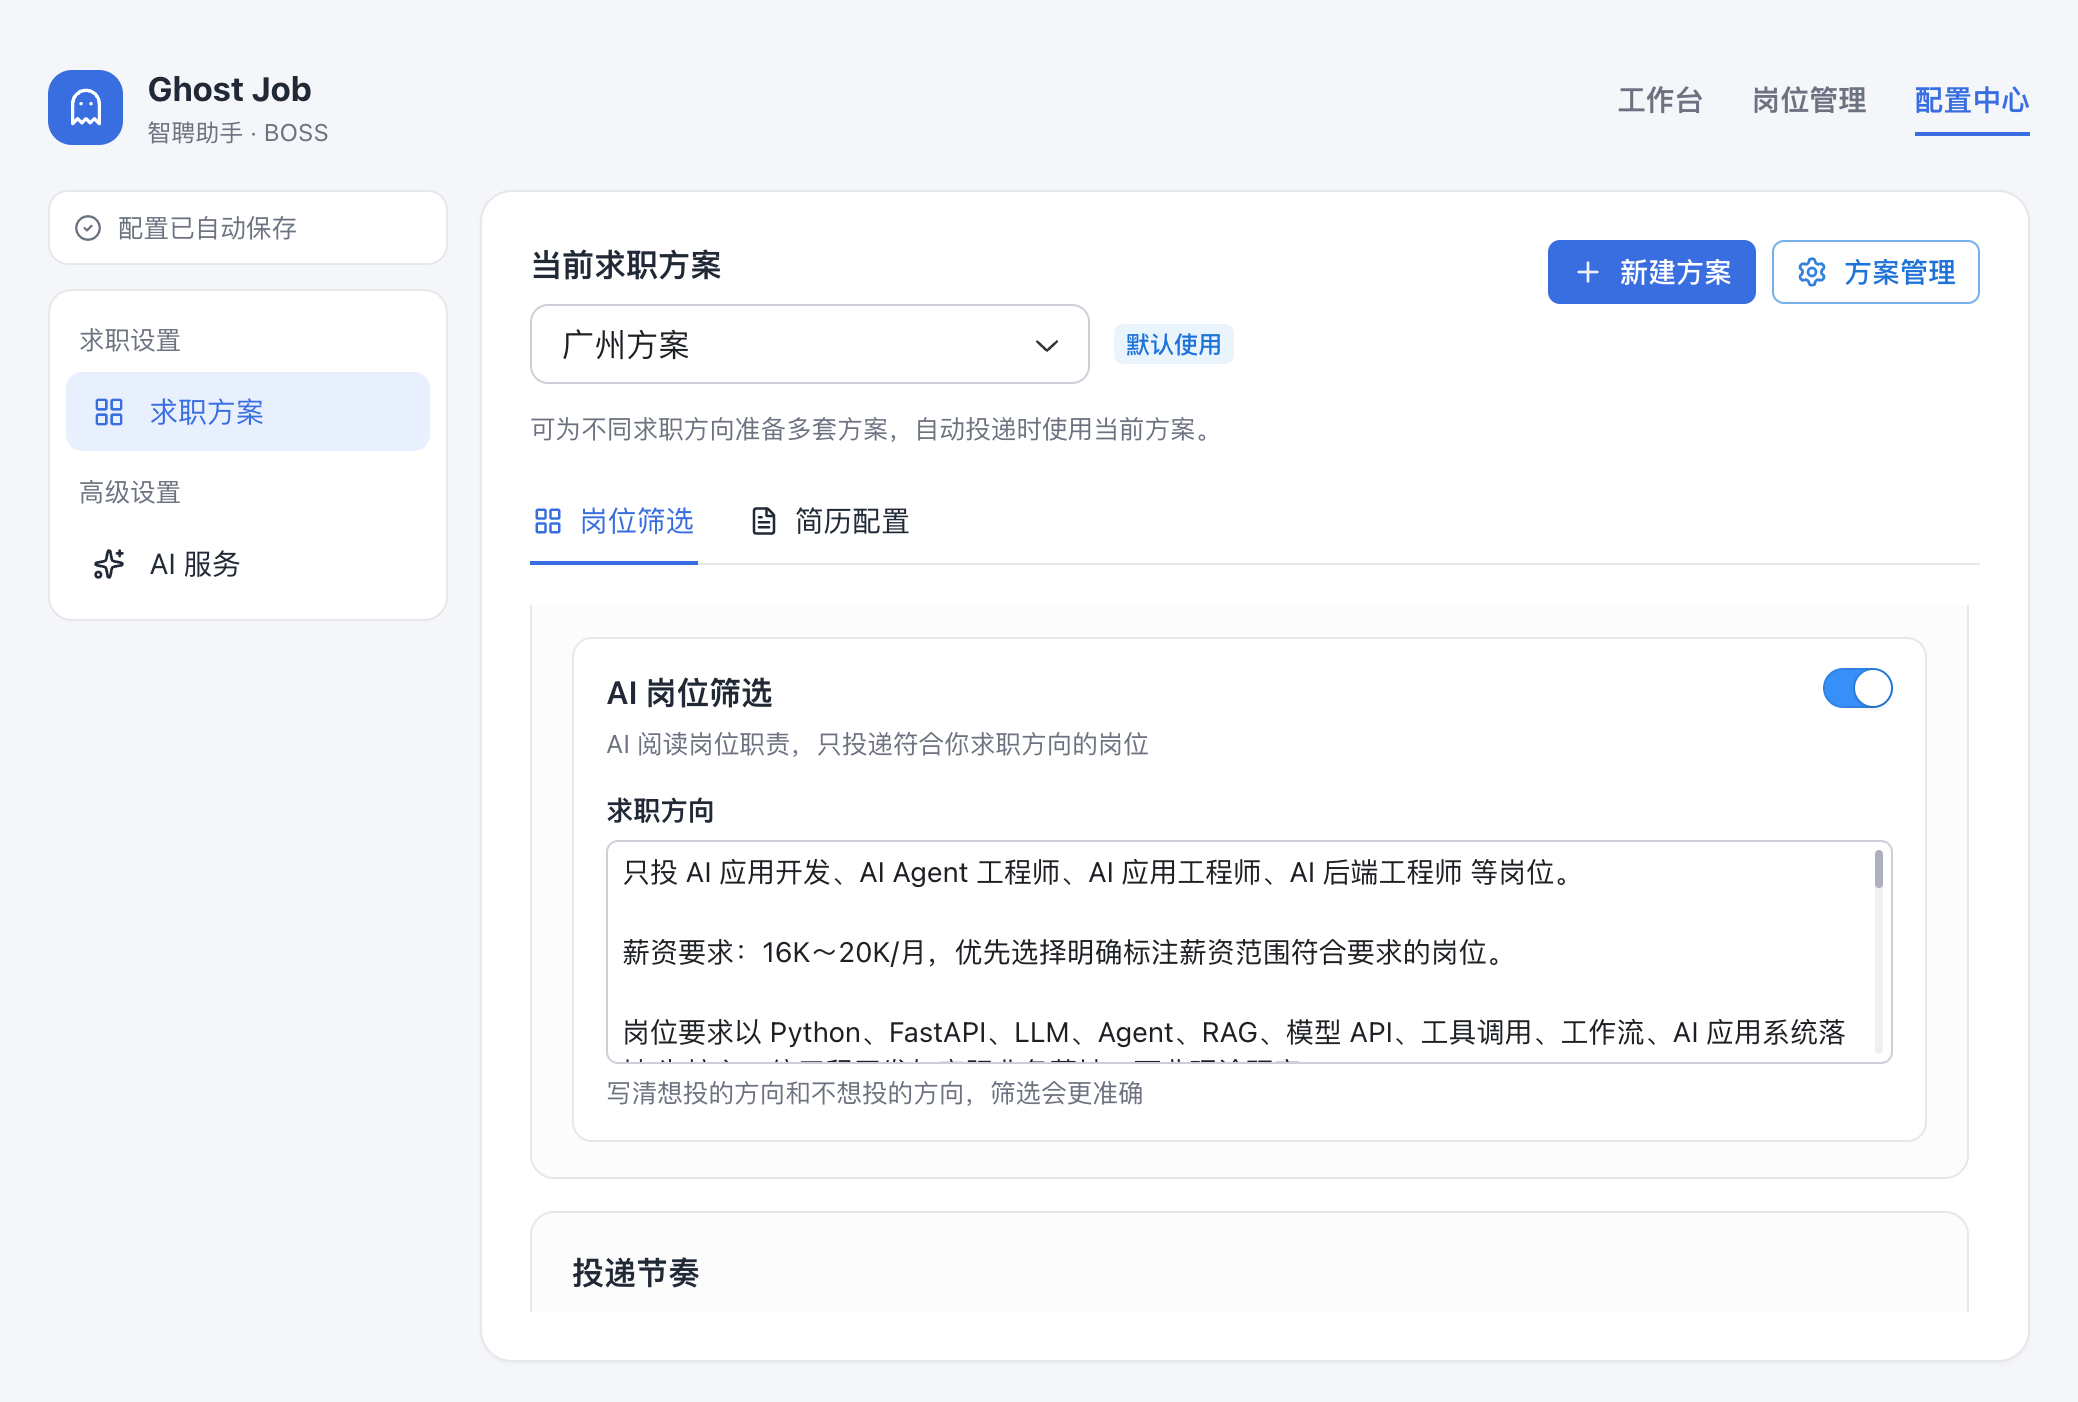
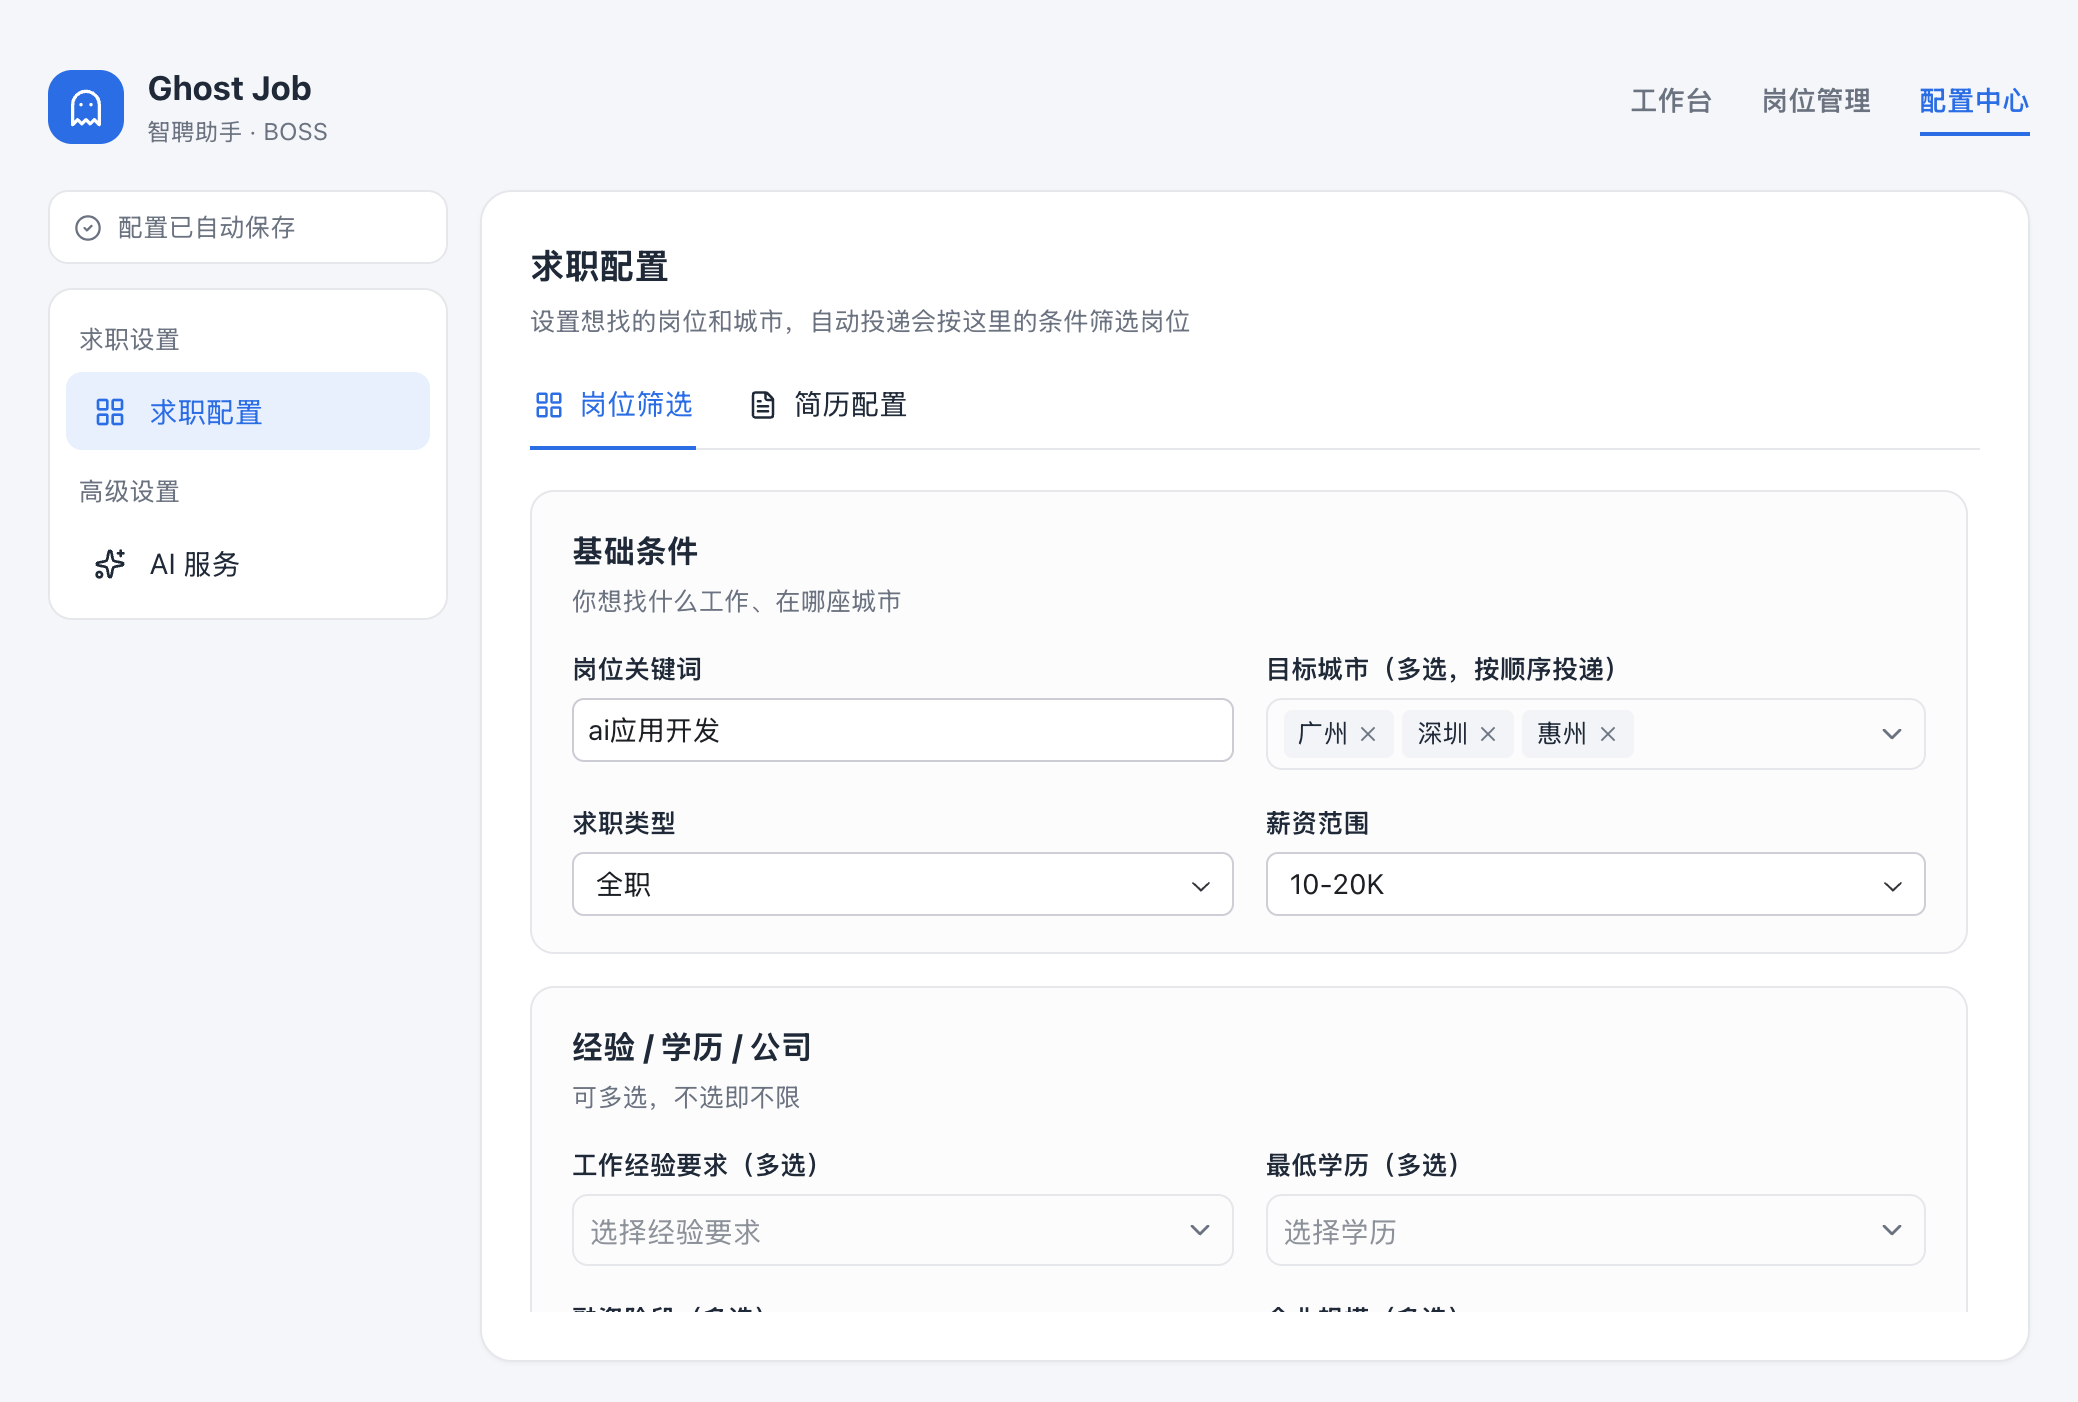
chore: 发布 v0.2.0
- 版本号升至 0.2.0
- 更新岗位筛选、简历配置、岗位管理截图与 README 说明
- 修复多城市标签框换行、岗位管理工具栏换行
- Release 说明支持按版本附加 .github/release-notes/<tag>.md

diff --git a/job/ui/pages/jobs.py b/job/ui/pages/jobs.py
@@ -54,14 +54,14 @@ class JobsPage:
                 value=JobsState.suitable,
                 on_change=JobsState.set_suitable,
                 size="2",
-                width="110px",
+                width="96px",
             ),
             rx.select(
                 JobsState.analysis_options,
                 value=JobsState.analysis,
                 on_change=JobsState.set_analysis,
                 size="2",
-                width="150px",
+                width="136px",
             ),
             rx.box(
                 rx.hstack(
@@ -72,7 +72,7 @@ class JobsPage:
                         placeholder="搜索岗位或公司",
                         variant="soft",
                         color_scheme="gray",
-                        width="220px",
+                        width="180px",
                         size="2",
                         style={
                             "background": "transparent",

diff --git a/job/ui/pages/config.py b/job/ui/pages/config.py
@@ -23,7 +23,7 @@ class ConfigPage:
         "outline": "none",
         "background": "transparent",
         "flex": "1",
-        "min_width": "120px",
+        "min_width": "48px",
         "font_size": "0.9em",
     }
 

diff --git a/README.md b/README.md
@@ -132,10 +132,11 @@
 
 ### 第五步：查看与分析岗位
 
-打开 **岗位管理** 查看所有投递过的岗位：
+打开 **岗位管理** 查看所有看过的岗位，合适的和不合适的都会记录下来：
 
-- 按「已分析 / 未分析 / 高匹配」筛选，搜索岗位或公司
-- 勾选岗位后点击「AI 分析」，批量评估匹配度
+- 每个岗位都有「是否合适」和「判断描述」，比如「外包公司」「技术栈吻合」，鼠标移到描述上可查看完整内容
+- 按「合适 / 不合适」（默认只看合适）和「已分析 / 未分析 / 高匹配」筛选，搜索岗位或公司
+- 勾选岗位后点击「AI 分析」，按当前求职方向和简历重新判断是否合适，并更新匹配度
 - 查看岗位详情，或批量删除不需要的记录
 
 ![岗位管理](assets/screenshots/jobs.png)
@@ -143,7 +144,10 @@
 ## 常见问题
 
 **会重复投递同一个岗位吗？**
-不会。投递成功的岗位会记录下来，下次自动跳过；之前已经沟通过的岗位也会跳过。
+不会。看过的岗位都会记录下来，再次遇到同一个岗位（职位相同，或招聘标题、公司、HR 都相同）会直接跳过，不再重复调用 AI；之前已经沟通过的岗位也会跳过。运行日志会统计本次投递、重复和跳过的数量。
+
+**从 v0.1.0 升级后打不开岗位管理或无法投递？**
+v0.2.0 调整了本地数据结构。升级前请先退出 Ghost Job，删除用户目录下的 `.ghost-job/ghost-job.db`，再打开新版本，重新填写 API Key、求职配置并上传简历。Chrome 里的 BOSS 直聘登录状态不受影响。
 
 **为什么有岗位被跳过了？**
 运行日志会写明原因，例如不符合关键词、AI 判断方向不符、匹配度不足或此前已沟通。

diff --git a/.github/release-notes/v0.2.0.md b/.github/release-notes/v0.2.0.md
@@ -1,0 +1,25 @@
+## 新功能
+
+- **多城市轮换投递**：目标城市可以多选，一个城市的岗位看完后自动切换到下一个
+- **合适 / 不合适都有记录**：每个岗位保存「是否合适」和「判断描述」，比如「外包公司」「技术栈吻合」
+- **重复岗位直接跳过**：职位相同，或招聘标题、公司、HR 都相同的岗位不再重复调用 AI，节省时间和费用
+- **运行日志统计**：实时显示本次投递、重复和跳过的数量
+- **岗位管理升级**：新增「合适 / 不合适」筛选（默认只看合适）和判断描述列；「AI 分析」会重新判断是否合适并更新匹配度
+
+## 改进与修复
+
+- 求职配置简化为一份，不再区分多个方案
+- 修复多选框输入中文时拼音被提前提交、选中后输入内容未清空的问题
+- Chrome 启动失败时正确提示浏览器资料目录被占用
+
+## 从 v0.1.0 升级须知
+
+v0.2.0 调整了本地数据结构，**旧版数据无法直接沿用**。升级步骤：
+
+1. 退出 Ghost Job
+2. 删除用户目录下的 `.ghost-job/ghost-job.db`
+   - macOS / Linux：`~/.ghost-job/ghost-job.db`
+   - Windows：`C:\Users\你的用户名\.ghost-job\ghost-job.db`
+3. 安装并打开新版本，重新填写 API Key、求职配置并上传简历
+
+Chrome 里的 BOSS 直聘登录状态保存在单独的目录，不受影响，无需重新登录。
